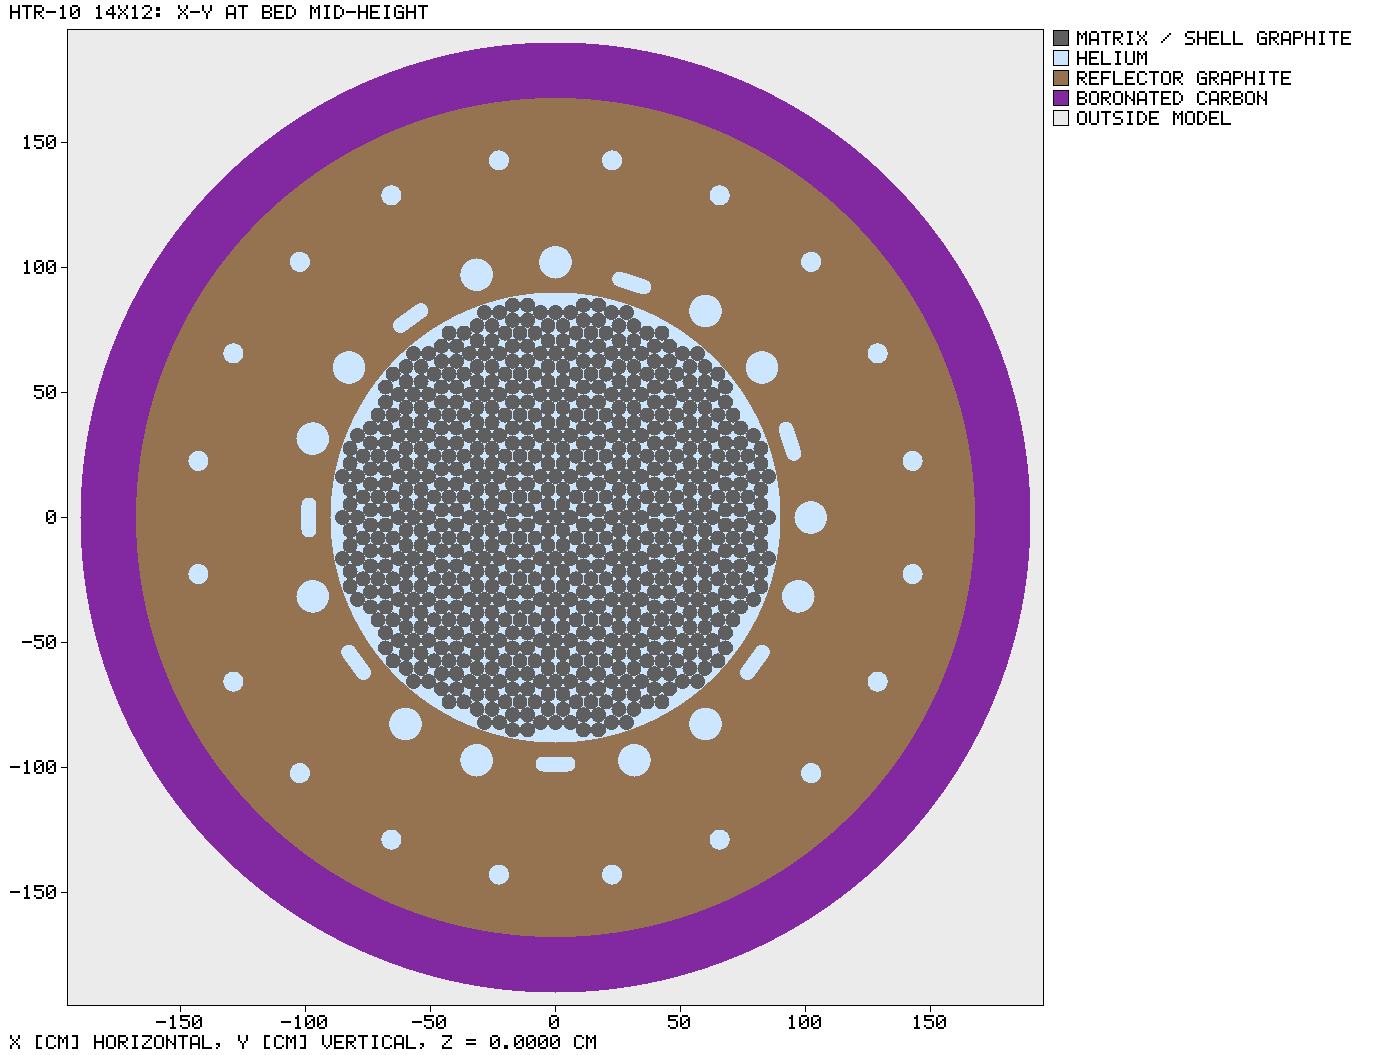
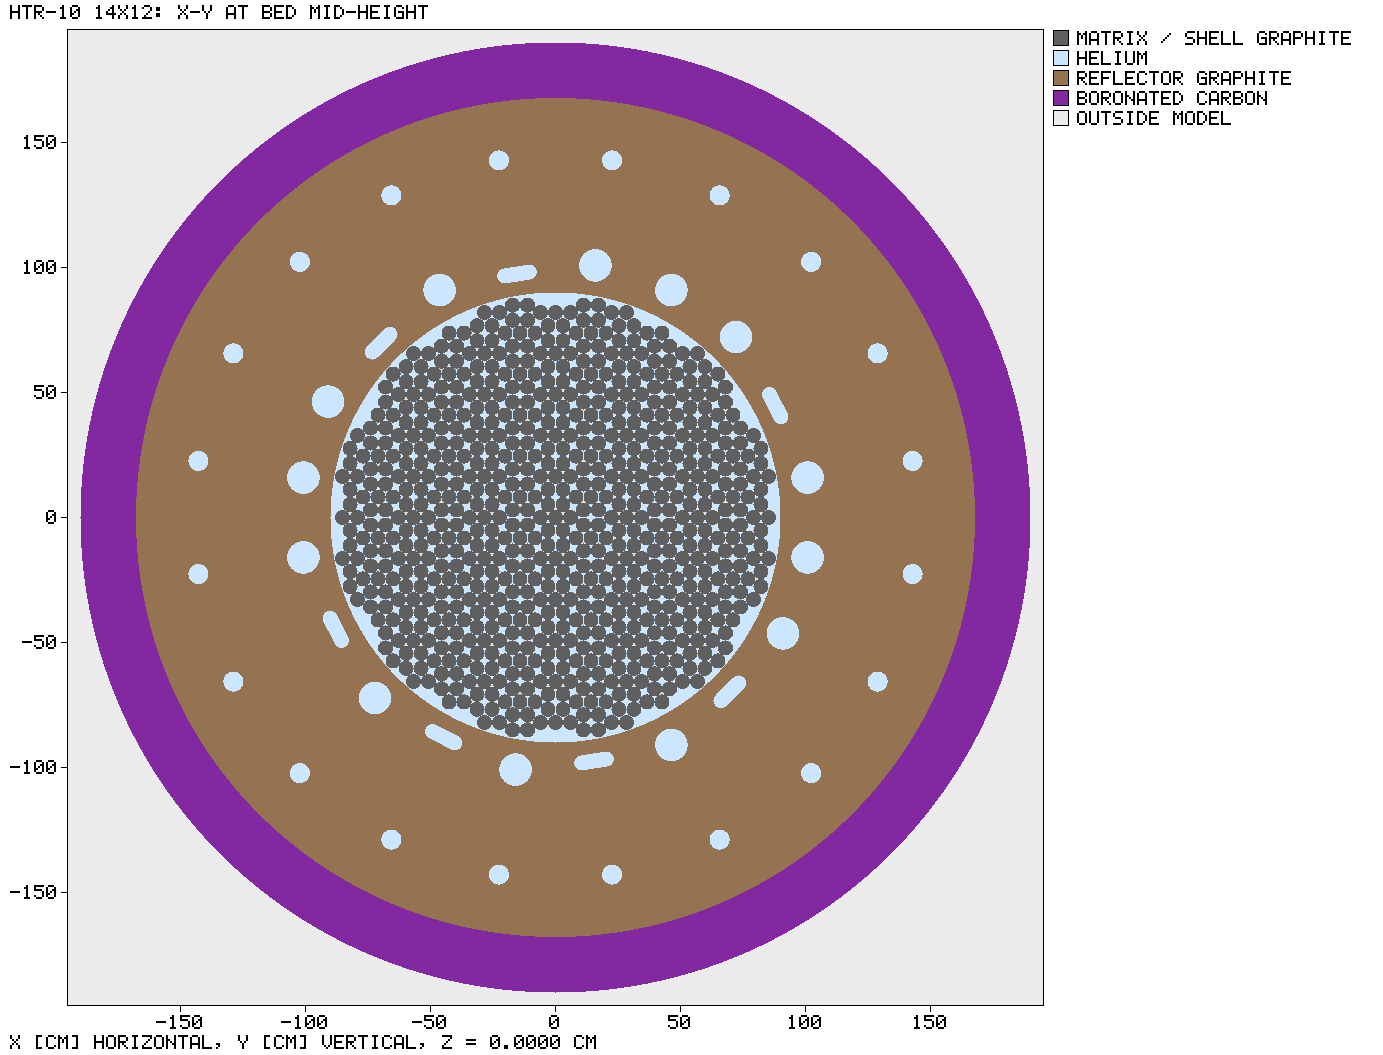
fix(nee_soon): HTR-10 reflector channels follow Seker & Colak (2003) Fig. 4 (#330)
Rods evenly spaced every 36 deg ('placed symmetrically', p.268); KLAK and
irradiation at the figure's positions; coolant ring aligned with the inner ring.
The figure is rotated by -171 deg so the hot gas duct (+x, z_T 465-495) sits
between an irradiation channel and a rod; it clears every channel at its height
(closest: coolant at +/-9 deg, 3.62 cm). New tests pin the layout to the figure and
the duct clearance. Images redrawn. Duct azimuth and figure handedness stay
conventions. Tests: nee_soon --lib --tests, 64 passed.

Claude-Session: https://claude.ai/code/session_012qgX47fwybgAuf2wEiRvBu

API-Usage-Since-Last-Commit: total=10431348 in=46 out=26638 cache_read=10366708 cache_write=37956 source=session-transcript
API-Usage-Session-Cumulative: total=3734829209

Changed region(s): [[0.1866, 0.2123, 0.6218, 0.7583]]

diff --git a/crates/nee_soon/src/htr10_rmc/reflector_geometry.rs b/crates/nee_soon/src/htr10_rmc/reflector_geometry.rs
@@ -50,6 +50,31 @@
 //! **ACCEPTED 2026-09-27 (maintainer, gh:#330): "18 degree pitch is
 //! acceptable"**, so this convention is the model.
 //!
+//! **SUPERSEDED 2026-10-01 by data (gh:#330).** Şeker & Çolak (2003), NED
+//! 222:263, Fig. 4 draws every channel. It was read at 600 dpi, at a scale of
+//! 3.0 px/cm.
+//! - **Inner ring:** 20 positions on an 18° pitch. The control rods sit at
+//!   every other position, evenly spaced at 36°, as the text says (*"placed
+//!   symmetrically in the side reflector"*, p.268). The KLAK slots and the
+//!   irradiation channels fill the positions between them (the figure's 18°,
+//!   54°, 90°, 126°, 198°, 270°, 306° and 162°, 234°, 342°).
+//! - **Coolant ring:** at the **same** azimuths as the inner ring.
+//!
+//! The earlier convention had the rods uneven (two adjacent pairs) and the
+//! coolant offset by 9°.
+//!
+//! The figure's pattern is used here, rotated by −171° so that the hot gas
+//! duct (kept on +x) lies in the gap between an irradiation channel and a rod.
+//! Both of those stop above the duct (`z_T` ≤ 450 cm against the duct's 465–495).
+//! Both rings then sit at 9° + 18° k. Two things remain conventions:
+//! - the duct's absolute azimuth relative to the channels, which no source
+//!   gives;
+//! - the figure's handedness (viewed from above or below is not stated). A
+//!   mirror image does not change B1.
+//!
+//! `the_channel_layout_is_sekers_fig_4` and
+//! `the_hot_gas_duct_clears_every_channel_at_its_height` pin both.
+//!
 //! **Contents.** B1 is defined with no rod inserted (p. 242), and the rods'
 //! withdrawn position is given (lower end at 119.2 cm), so the rods ARE in
 //! their channels, in the top reflector, with their B4C, steel sleeves and
@@ -141,19 +166,24 @@ pub const HOT_GAS_DUCT_AXIS_ZT_CM: f64 = 480.0;
 pub const HOT_GAS_DUCT_RHO_CM: (f64, f64) = (90.0, 190.0);
 
 /// Angular pitch \[deg\] of the 20 inner-ring borings (10 rods + 3
-/// irradiation + 7 KLAK). **A convention, not data**: see the module docs.
+/// irradiation + 7 KLAK). Şeker & Çolak (2003) Fig. 4 (module docs).
 pub const INNER_RING_PITCH_DEG: f64 = 18.0;
-/// Azimuthal offset \[deg\] of the coolant ring against the inner ring, so no
-/// coolant channel meets the hot gas duct. **A convention, not data.**
-pub const COOLANT_OFFSET_DEG: f64 = 9.0;
-/// Inner-ring positions holding a KLAK channel. **A convention, not data.**
-/// Spread as evenly as 7 in 20 allows, and never position 0, which is on the
-/// hot gas duct's azimuth: a KLAK channel reaches the duct's height, a rod
-/// channel stops above it.
-pub const KLAK_POSITIONS: [usize; N_KLAK_CHANNELS] = [1, 4, 7, 10, 12, 15, 18];
-/// Inner-ring positions holding an irradiation channel. **A convention, not
-/// data.**
-pub const IRRADIATION_POSITIONS: [usize; N_IRRADIATION_CHANNELS] = [3, 9, 16];
+/// Azimuth \[deg\] of inner-ring position 0, and of coolant channel 0: the
+/// two rings are aligned (Şeker Fig. 4). The 9° itself places the hot gas duct
+/// (on +x) in the gap between irradiation position 19 and rod position 0;
+/// that part is a convention (module docs).
+/// ~~`COOLANT_OFFSET_DEG = 9.0`, with the inner ring at 0°: coolant offset
+/// against the inner ring.~~ **CHANGED 2026-10-01 (gh:#330).**
+pub const RING_OFFSET_DEG: f64 = 9.0;
+/// Inner-ring positions holding a KLAK channel: Şeker Fig. 4 (18°, 54°, 90°,
+/// 126°, 198°, 270°, 306°) rotated by −171°.
+/// ~~`[1, 4, 7, 10, 12, 15, 18]`, a convention~~ **CHANGED 2026-10-01
+/// (gh:#330).**
+pub const KLAK_POSITIONS: [usize; N_KLAK_CHANNELS] = [1, 5, 7, 11, 13, 15, 17];
+/// Inner-ring positions holding an irradiation channel: Şeker Fig. 4 (162°,
+/// 234°, 342°) rotated by −171°. ~~`[3, 9, 16]`, a convention~~ **CHANGED
+/// 2026-10-01 (gh:#330).** The rods are the ten even positions.
+pub const IRRADIATION_POSITIONS: [usize; N_IRRADIATION_CHANNELS] = [3, 9, 19];
 
 /// What a reflector channel is.
 #[derive(Debug, Clone, Copy, PartialEq, Eq)]
@@ -242,7 +272,7 @@ pub fn reflector_channels() -> Vec<ReflectorChannel> {
     for k in 0..N_COOLANT_CHANNELS {
         v.push(ReflectorChannel {
             kind: ChannelKind::Coolant,
-            azimuth_deg: COOLANT_OFFSET_DEG + INNER_RING_PITCH_DEG * k as f64,
+            azimuth_deg: RING_OFFSET_DEG + INNER_RING_PITCH_DEG * k as f64,
         });
     }
     let n_inner = N_CONTROL_RODS + N_IRRADIATION_CHANNELS + N_KLAK_CHANNELS;
@@ -256,7 +286,7 @@ pub fn reflector_channels() -> Vec<ReflectorChannel> {
         };
         v.push(ReflectorChannel {
             kind,
-            azimuth_deg: INNER_RING_PITCH_DEG * k as f64,
+            azimuth_deg: RING_OFFSET_DEG + INNER_RING_PITCH_DEG * k as f64,
         });
     }
     v
@@ -809,4 +839,83 @@ pub(super) fn build_reflector(
         root.push(push(cells, Cell::material(new_id(), reg.0, m, 293.6)));
     }
     root
+}
+
+#[cfg(test)]
+mod channel_layout_tests {
+    use super::*;
+
+    /// **The channel layout is Şeker & Çolak (2003) Fig. 4** (gh:#330). Read
+    /// from the figure: rods at 0°, 36°, …; KLAK at 18°, 54°, 90°, 126°, 198°,
+    /// 270°, 306°; irradiation at 162°, 234°, 342°; coolant at the inner
+    /// ring's azimuths. The model rotates that by a single angle; this checks
+    /// that one rotation maps every channel onto the figure's kind at the
+    /// figure's angle, and that the rods are evenly spaced.
+    #[test]
+    fn the_channel_layout_is_sekers_fig_4() {
+        let fig_klak = [18.0, 54.0, 90.0, 126.0, 198.0, 270.0, 306.0];
+        let fig_irr = [162.0, 234.0, 342.0];
+        let rot = 171.0; // model azimuth + 171 = figure azimuth
+        let norm = |a: f64| a.rem_euclid(360.0);
+        let near = |a: f64, b: f64| (norm(a - b + 180.0) - 180.0).abs() < 1e-9;
+        let ch = reflector_channels();
+        let mut rods = Vec::new();
+        for c in &ch {
+            let fig = norm(c.azimuth_deg + rot);
+            match c.kind {
+                ChannelKind::ControlRod => {
+                    assert!(near(fig % 36.0, 0.0) || near(fig % 36.0, 36.0), "rod at fig {fig}");
+                    rods.push(c.azimuth_deg);
+                }
+                ChannelKind::AbsorberBall => {
+                    assert!(fig_klak.iter().any(|&f| near(f, fig)), "KLAK at fig {fig}")
+                }
+                ChannelKind::Irradiation => {
+                    assert!(fig_irr.iter().any(|&f| near(f, fig)), "irradiation at fig {fig}")
+                }
+                ChannelKind::Coolant => {
+                    assert!(near((fig / 18.0).round() * 18.0, fig), "coolant at fig {fig}")
+                }
+            }
+        }
+        assert_eq!(rods.len(), N_CONTROL_RODS);
+        rods.sort_by(f64::total_cmp);
+        for w in rods.windows(2) {
+            assert!((w[1] - w[0] - 36.0).abs() < 1e-9, "rods not evenly spaced: {rods:?}");
+        }
+    }
+
+    /// **The hot gas duct (on +x, `z_T` 465–495, ρ 90–190 cm, r = 15 cm)
+    /// overlaps no channel that reaches its height** (gh:#330). TECDOC's zone
+    /// 44/62 densities are exactly additive in the duct and channel voids, so
+    /// none may overlap. Checked by the lateral distance from each channel's
+    /// centre to the duct axis, less both radii (the KLAK is round at that
+    /// height).
+    ///
+    /// **Result (2026-10-01):** the closest are the coolant channels at ±9°,
+    /// with 3.62 cm clearance, and the KLAK at 27°, with 26.8 cm.
+    #[test]
+    fn the_hot_gas_duct_clears_every_channel_at_its_height() {
+        let duct_zt = (
+            HOT_GAS_DUCT_AXIS_ZT_CM - HOT_GAS_DUCT_RADIUS_CM,
+            HOT_GAS_DUCT_AXIS_ZT_CM + HOT_GAS_DUCT_RADIUS_CM,
+        );
+        let mut min_gap = f64::INFINITY;
+        for c in reflector_channels() {
+            let (z0, z1) = c.zt_range();
+            if z1 <= duct_zt.0 || z0 >= duct_zt.1 {
+                continue; // stops above (rods, irradiation) or starts below
+            }
+            let [x, y] = c.centre_xy();
+            let (rmin, rmax) = c.radial_extent_cm(HOT_GAS_DUCT_AXIS_ZT_CM);
+            let r_ch = 0.5 * (rmax - rmin);
+            // Lateral distance to the duct axis (the +x half-line).
+            let lateral = if x > 0.0 { y.abs() } else { x.hypot(y) };
+            let gap = lateral - r_ch - HOT_GAS_DUCT_RADIUS_CM;
+            println!("{:?} at {:.1} deg: gap {gap:.3} cm", c.kind, c.azimuth_deg);
+            min_gap = min_gap.min(gap);
+            assert!(gap > 0.0, "{:?} at {} deg overlaps the duct by {:.3} cm", c.kind, c.azimuth_deg, -gap);
+        }
+        assert!(min_gap.is_finite());
+    }
 }

diff --git a/crates/nee_soon/verification_and_validation/htr10_geometry_images/README.md b/crates/nee_soon/verification_and_validation/htr10_geometry_images/README.md
@@ -38,6 +38,12 @@ that set showed.
 - `htr10_xz_pebbles.png`: the basal (z = 0, ±9.8) and central (±4.9) planes
   stack. The small circles are off-centre cuts.
 
+- **Re-drawn 2026-10-01 after the channel-layout fix (gh:#330):** in
+  `htr10_xy_bed_mid.png` the coolant and inner rings are now aligned radially
+  (both at 9° + 18° k). The 13 round channels are the 10 rods and 3
+  irradiation channels, empty at this height; the 7 tangential slots are KLAK.
+  The pattern is Şeker Fig. 4 rotated by −171°.
+
 **Not checked by eye:** whether each fuel/dummy identity agrees across tiles.
 `every_piece_of_a_built_ball_has_one_identity` checks that on the built
 geometry: 0 inconsistent of 16 692 at N = 9.
